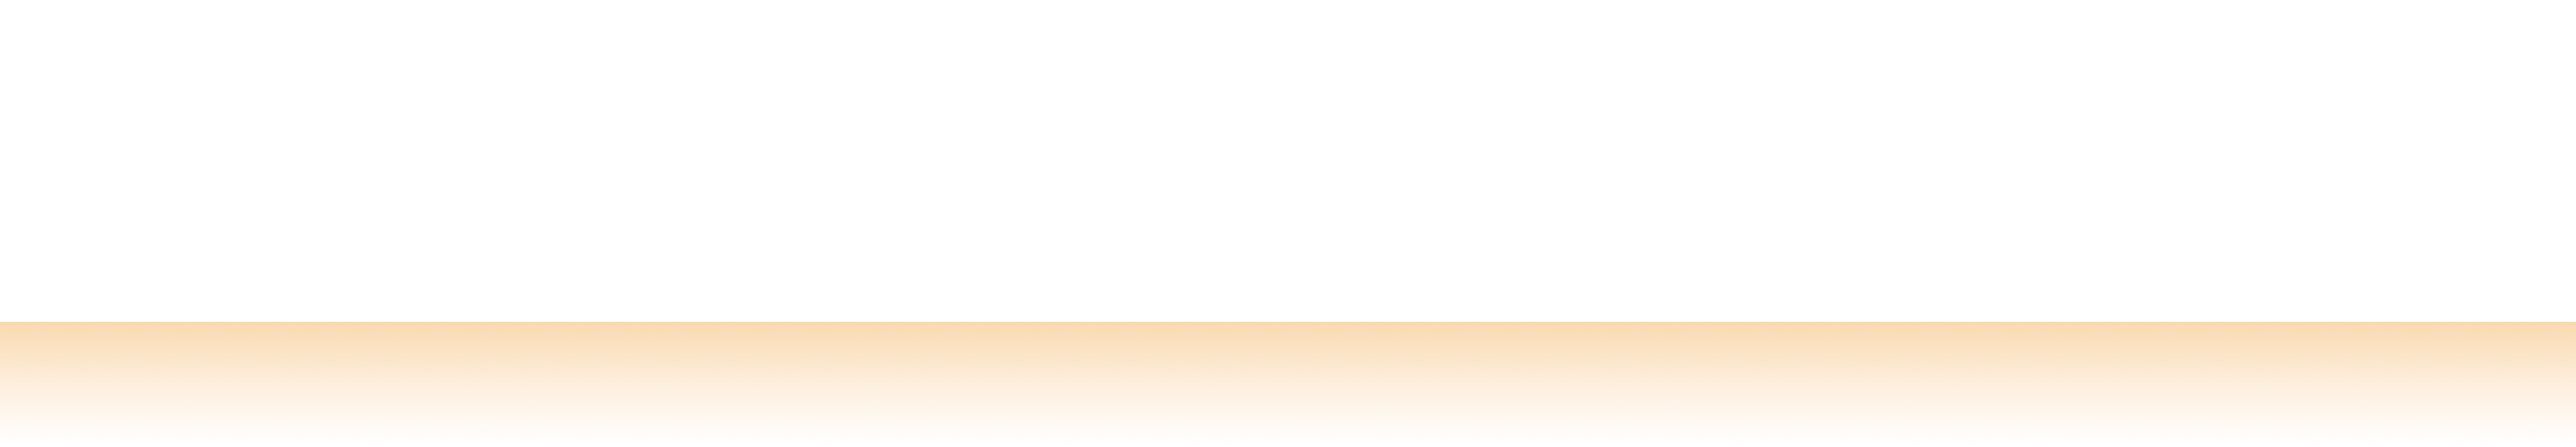
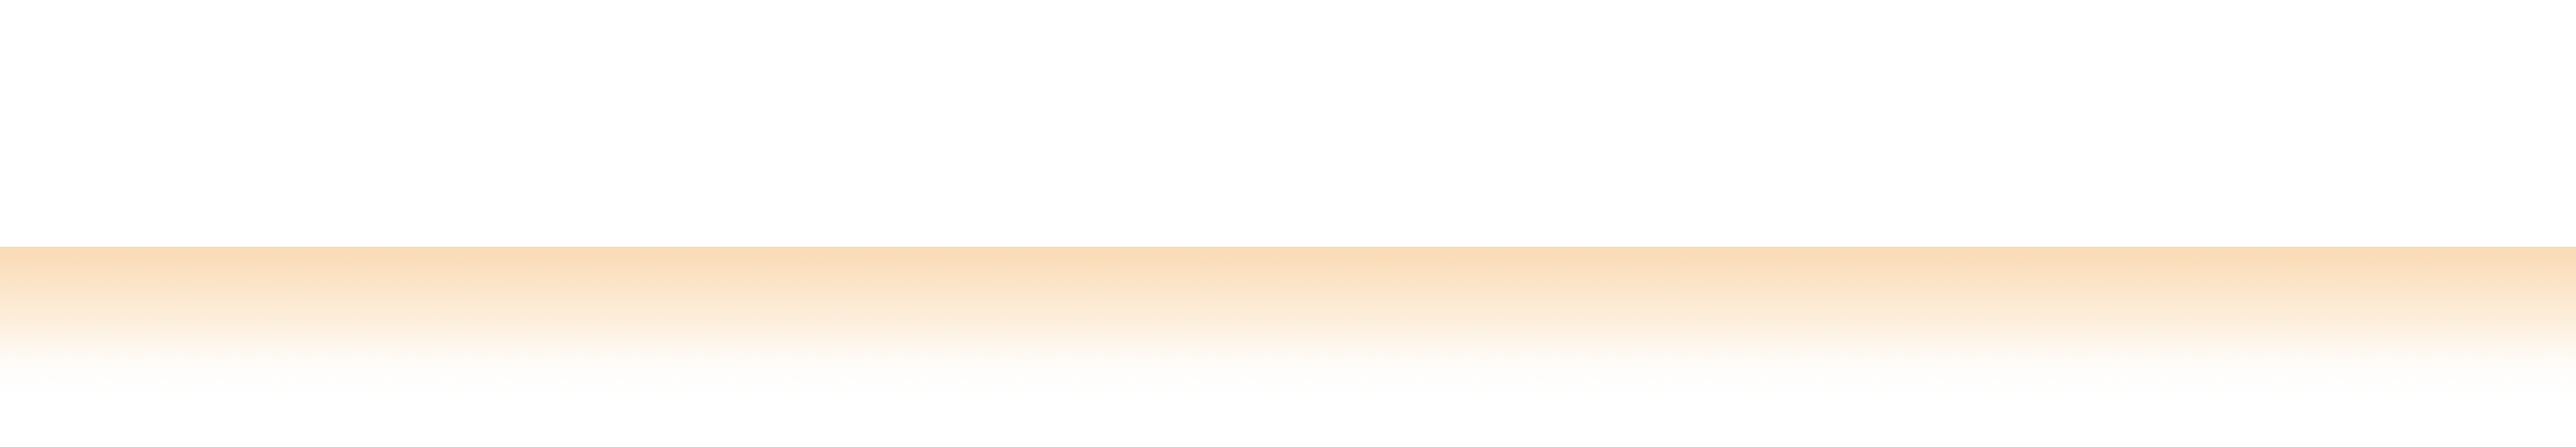
front page tiles updated

diff --git a/dist/templates/cc.html b/dist/templates/cc.html
@@ -55,16 +55,16 @@
       <div class="columns">
         <div class="column is-3 vertical-center">
           <p class="blockquote" style="
-          color: #EF9421; 
+          color: white; 
           padding: 0; 
-          text-transform: uppercase; 
           font-weight: 400; 
-          font-size: 2em;">
-            User Agency
+          font-size: 2.5em;">
+            User agency,<br>
+            platform agnostic.
           </p>
         </div>
         <div class="column is-6">
-          <iframe width="100%" height="250" src="https://www.youtube.com/embed/FRtFQnNJARk" frameborder="0" allow="accelerometer; autoplay; encrypted-media; gyroscope; picture-in-picture" allowfullscreen></iframe>
+          <iframe width="100%" height="300" src="https://www.youtube.com/embed/FRtFQnNJARk" frameborder="0" allow="accelerometer; autoplay; encrypted-media; gyroscope; picture-in-picture" allowfullscreen></iframe>
         </div>
         <div class="column is-3 vertical-center">
           <p class="blockquote" style="
@@ -73,8 +73,8 @@
           padding: 0; 
           text-transform: uppercase; 
           font-weight: 400; 
-          font-size: 2em;">
-            Device Agnostic
+          font-size: 2.5em;">
+            
           </p>
         </div>
       </div>
@@ -92,7 +92,7 @@
         In January 2018, CC kicked off the <a href="https://medium.com/@janepk/findings-from-the-discovery-phase-of-cc-usability-3bde89d55a74">CC Usability Initiative</a> to rennovate the experience of CC licensing. Nine core insights were discovered and six projects green-lit for prototyping.
       </p>
       <p class="paragraph-lead">
-       Redesigning the License Chooser Tool was one of those six projects, and CC partnered with students from INFO290: Product Studio Design to develop the concept and deliver a high fidelity prototype. 
+       Redesigning the License Chooser Tool was one of those six projects, and CC partnered with INFO290: Product Studio Design to develop the concept and deliver a prototype. 
       </p>
 
       <div class="columns">

diff --git a/index.html b/index.html
@@ -54,7 +54,7 @@
       <div class="column is-half">
           <figure class="image is-3by2">
               <a href="dist/templates/cc.html">
-              <img src="assets/CC/tile.png" alt="Creative Commons">
+              <img src="assets/CC/tile-iso-white.png" alt="Creative Commons">
               </a>
           </figure>
       </div>

diff --git a/dist/css/project_styles copy.css b/dist/css/project_styles copy.css
@@ -1,5 +1,5 @@
 .cc-bg-img {
-  background: url('../../assets/CC/background-gradient-platforms.png'); 
+  background: url('../../assets/CC/orange-gradient.png'); 
   background-size:cover; 
   
 }
